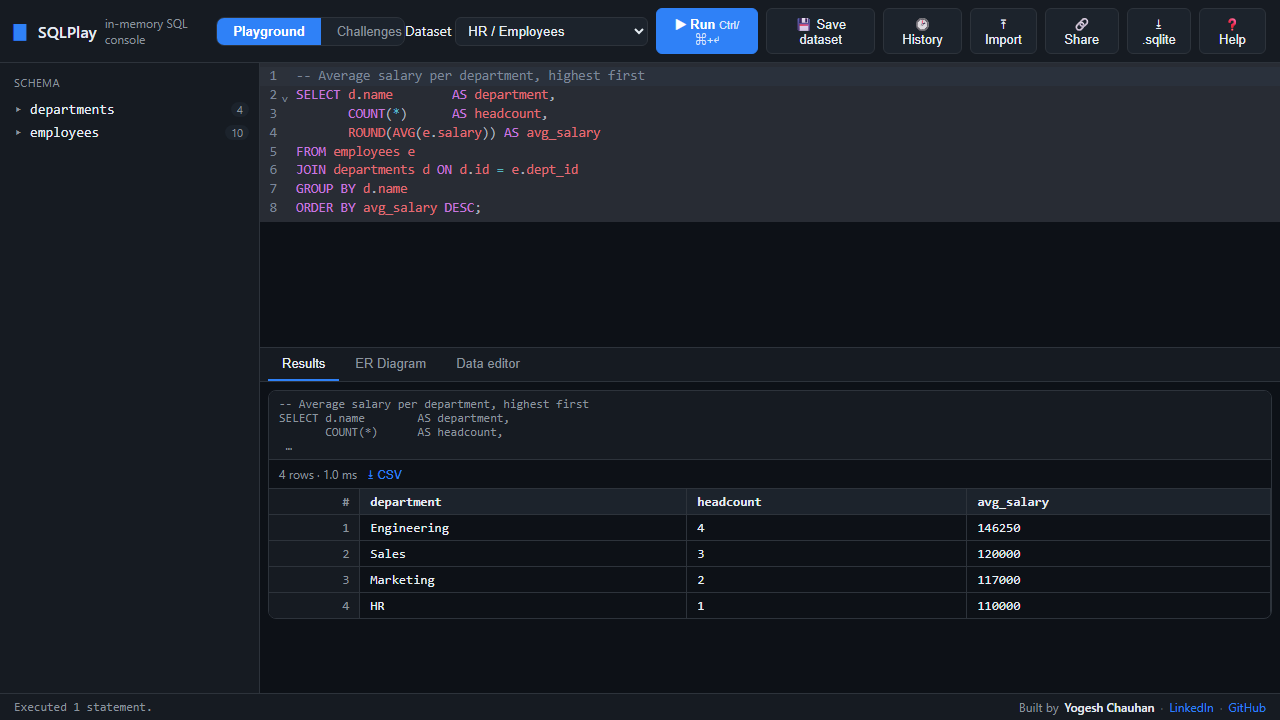
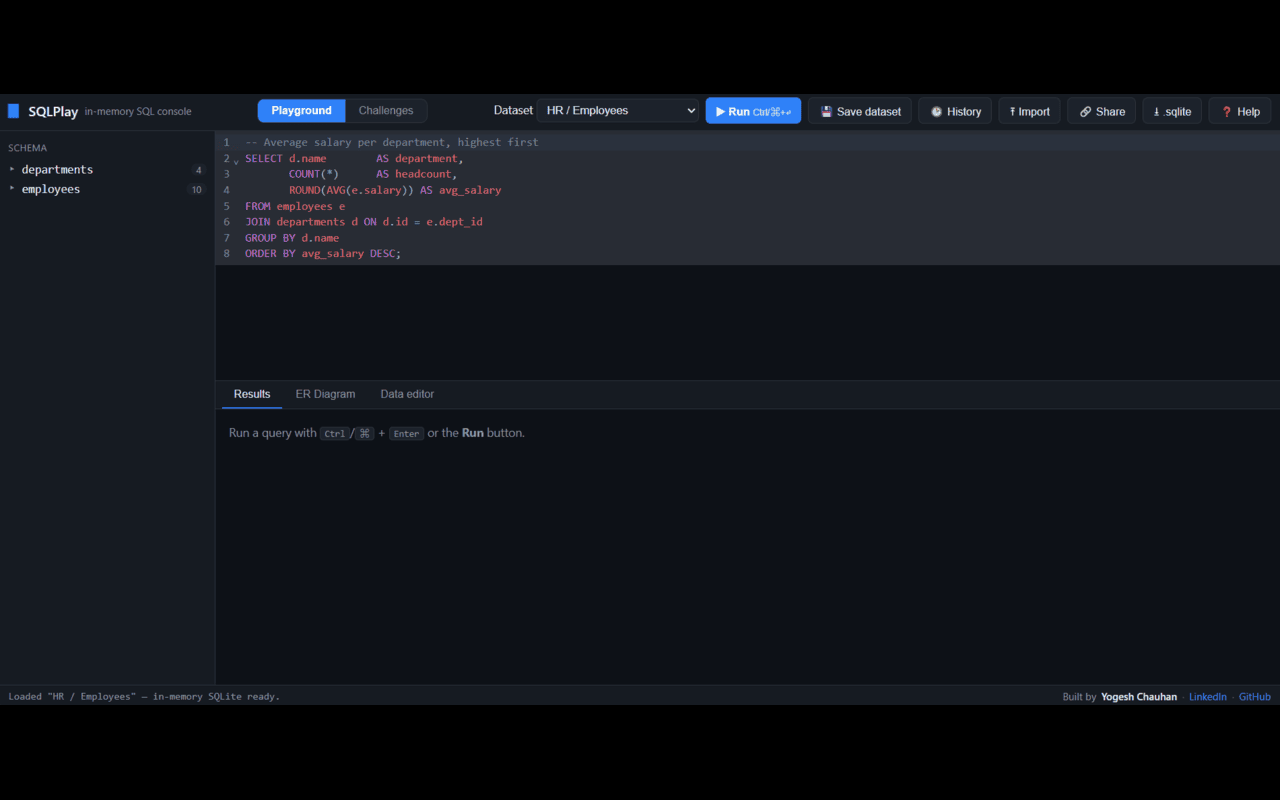
feat: update portfolio with EcoExpress project and enhance existing project descriptions

diff --git a/src/components/Skills.tsx b/src/components/Skills.tsx
@@ -20,9 +20,14 @@ import {
     IconBrandVercel,
     IconBrandVite,
     IconBrandVue,
+    IconCoffee,
+    IconBrandDocker,
+    IconBrandAws,
     IconComponents,
     IconDatabase,
+    IconFileTypeXml,
     IconFlame,
+    IconLeaf,
     IconMasksTheater,
     IconPlugConnected,
     IconServer,
@@ -30,6 +35,7 @@ import {
     IconSparkles,
     IconStack2,
     IconTestPipe,
+    IconVersions,
 } from "@tabler/icons-react"
 
 type Skill = { title: string; logo: ReactElement }
@@ -58,6 +64,9 @@ const skillGroups: SkillGroup[] = [
         skills: [
             { title: "Node.js", logo: <IconBrandNodejs className={iconClass} aria-hidden="true" /> },
             { title: "Express.js", logo: <IconServer className={iconClass} aria-hidden="true" /> },
+            { title: "Java", logo: <IconCoffee className={iconClass} aria-hidden="true" /> },
+            { title: "Spring Boot", logo: <IconLeaf className={iconClass} aria-hidden="true" /> },
+            { title: "Spring Security", logo: <IconShieldCheck className={iconClass} aria-hidden="true" /> },
             { title: "Hono", logo: <IconFlame className={iconClass} aria-hidden="true" /> },
             { title: "REST APIs", logo: <IconApi className={iconClass} aria-hidden="true" /> },
             { title: "Socket.io", logo: <IconPlugConnected className={iconClass} aria-hidden="true" /> },
@@ -71,6 +80,8 @@ const skillGroups: SkillGroup[] = [
             { title: "PostgreSQL", logo: <IconDatabase className={iconClass} aria-hidden="true" /> },
             { title: "MySQL", logo: <IconDatabase className={iconClass} aria-hidden="true" /> },
             { title: "Prisma", logo: <IconBrandPrisma className={iconClass} aria-hidden="true" /> },
+            { title: "JPA / Hibernate", logo: <IconDatabase className={iconClass} aria-hidden="true" /> },
+            { title: "Flyway", logo: <IconVersions className={iconClass} aria-hidden="true" /> },
             { title: "Redis", logo: <IconServer className={iconClass} aria-hidden="true" /> },
         ],
     },
@@ -80,6 +91,7 @@ const skillGroups: SkillGroup[] = [
             { title: "Google Gemini", logo: <IconSparkles className={iconClass} aria-hidden="true" /> },
             { title: "OpenAI", logo: <IconBrandOpenai className={iconClass} aria-hidden="true" /> },
             { title: "Vercel AI SDK", logo: <IconBrandVercel className={iconClass} aria-hidden="true" /> },
+            { title: "Spring AI", logo: <IconLeaf className={iconClass} aria-hidden="true" /> },
         ],
     },
     {
@@ -90,6 +102,9 @@ const skillGroups: SkillGroup[] = [
             { title: "Playwright", logo: <IconMasksTheater className={iconClass} aria-hidden="true" /> },
             { title: "Git", logo: <IconBrandGit className={iconClass} aria-hidden="true" /> },
             { title: "GitHub Actions", logo: <IconBrandGithub className={iconClass} aria-hidden="true" /> },
+            { title: "Docker", logo: <IconBrandDocker className={iconClass} aria-hidden="true" /> },
+            { title: "Maven", logo: <IconFileTypeXml className={iconClass} aria-hidden="true" /> },
+            { title: "AWS S3 / R2", logo: <IconBrandAws className={iconClass} aria-hidden="true" /> },
             { title: "Cloudflare Workers", logo: <IconBrandCloudflare className={iconClass} aria-hidden="true" /> },
             { title: "Vercel", logo: <IconBrandVercel className={iconClass} aria-hidden="true" /> },
         ],

diff --git a/src/components/ui/Footer.tsx b/src/components/ui/Footer.tsx
@@ -8,13 +8,13 @@ const Footer = () => {
         <footer className="w-full mx-auto">
             <Container
                 className="relative mx-auto h-full w-full max-w-4xl bg-white dark:bg-neutral-900 flex justify-between border-t border-neutral-100 px-10 py-3 md:py-3 dark:border-neutral-800">
-                <p className=" text-xs text-neutral-500">Built with love by Yogesh</p>
+                <p className=" text-xs text-neutral-500">Built with love by Yogesh Chauhan</p>
                 <div className="flex items-center justify-center gap-4">
 
-                    {/* <Link href="#">
-                    <IconBrandX className=" size-4 text-neutral-500 hover:text-neutral-700 dark:text-neutral-400 dark:hover:text-neutral-200" />
-                </Link> */}
-                    <Link href="https://www.linkedin.com/in/yogesh-chauhan-318172119/" target="_blank" rel="noopener noreferrer" aria-label="Visit my LinkedIn profile">
+                    <Link href="https://x.com/Yogesh0130" target="_blank" rel="noopener noreferrer">
+                        <IconBrandX className=" size-4 text-neutral-500 hover:text-neutral-700 dark:text-neutral-400 dark:hover:text-neutral-200" />
+                    </Link>
+                    <Link href="https://www.linkedin.com/in/yogeshchauhan-dev/" target="_blank" rel="noopener noreferrer" aria-label="Visit my LinkedIn profile">
                         <IconBrandLinkedin className=" size-4 text-neutral-500 hover:text-neutral-700 dark:text-neutral-400 dark:hover:text-neutral-200" />
                     </Link>
                     <Link href="https://github.com/Yogesh0627" target="_blank" rel="noopener noreferrer" aria-label="Visit my GitHub profile">

diff --git a/src/components/Timeline.tsx b/src/components/Timeline.tsx
@@ -21,6 +21,10 @@ const timelineData: TimelineDataType[] = [
         title: "2026",
         content: [
             {
+                title: "Shipped EcoExpress — an AI-assisted organic grocery platform",
+                description: "Stepped outside the JS stack to build a Java 21 / Spring Boot modular monolith behind a Next.js storefront, pushing the money- and stock-critical rules down into Postgres constraints so a bug in application code can't corrupt an order or oversell inventory."
+            },
+            {
                 title: "Led a backend performance overhaul at WoCo",
                 description: "Refactored god-controllers into a clean layered architecture, raised the codebase's documented quality score from 4.5 to 8.6/10, and cut authenticated-request overhead ~4× with a Redis cache and 44 MongoDB indexes."
             },
@@ -47,7 +51,7 @@ const timelineData: TimelineDataType[] = [
         title: "2024",
         content: [
             {
-                title: "Joined Work Companion LLP as a Software Engineer",
+                title: "Joined Work Companion (WoCo) as a Software Engineer",
                 description: "Started as a core engineer on WoCo PMS, a multi-tenant HR performance-management platform built with React, TypeScript, and Node.js."
             },
             {

diff --git a/src/app/layout.tsx b/src/app/layout.tsx
@@ -76,7 +76,7 @@ export default function RootLayout({
                 "jobTitle": "Software Engineer",
                 "worksFor": {
                   "@type": "Organization",
-                  "name": "Work Companion LLP",
+                  "name": "Work Companion (WoCo)",
                   "url": "https://woco.co.in"
                 },
                 "alumniOf": {
@@ -86,7 +86,7 @@ export default function RootLayout({
                 },
                 "sameAs": [
                   "https://github.com/Yogesh0627",
-                  "https://www.linkedin.com/in/yogesh-chauhan-318172119/",
+                  "https://www.linkedin.com/in/yogeshchauhan-dev/",
                   "https://x.com/Yogesh0130"
                 ],
                 "email": "[email redacted]",

diff --git a/src/app/projects/page.tsx b/src/app/projects/page.tsx
@@ -7,8 +7,8 @@ import projectsData from "@/data/projectsData.json"
 
 export const metadata: Metadata = {
     title: "Projects",
-    description: "Explore Yogesh Chauhan's projects — Candor (AI-coached feedback), SQLPlay (an in-browser SQL playground on npm), InsightBlog (AI publishing platform), and WoCo PMS (multi-tenant HR platform).",
-    keywords: ["Software Projects", "React Projects", "Node.js Projects", "Next.js", "AI Integration", "Full Stack Developer"]
+    description: "Explore Yogesh Chauhan's projects — EcoExpress (AI-assisted organic grocery platform on Spring Boot), Candor (AI-coached feedback), SQLPlay (an in-browser SQL playground on npm), InsightBlog (AI publishing platform), and WoCo PMS (multi-tenant HR platform).",
+    keywords: ["Software Projects", "React Projects", "Node.js Projects", "Java Projects", "Spring Boot", "Next.js", "AI Integration", "Full Stack Developer"]
 }
 
 const ProjectPage = () => {

diff --git a/src/components/Projects.tsx b/src/components/Projects.tsx
@@ -20,6 +20,8 @@ import {
     IconArrowRight,
     IconExternalLink,
     IconFlame,
+    IconLeaf,
+    IconCoffee,
     IconServer,
     IconSparkles,
 } from "@tabler/icons-react";
@@ -40,6 +42,8 @@ const techIcon: Record<string, ReactElement> = {
     "Prisma": <IconBrandPrisma className={chipClass} aria-hidden="true" />,
     "Redis": <IconDatabase className={chipClass} aria-hidden="true" />,
     "Hono": <IconFlame className={chipClass} aria-hidden="true" />,
+    "Java": <IconCoffee className={chipClass} aria-hidden="true" />,
+    "Spring Boot": <IconLeaf className={chipClass} aria-hidden="true" />,
     "Gemini": <IconSparkles className={chipClass} aria-hidden="true" />,
     "OpenAI": <IconBrandOpenai className={chipClass} aria-hidden="true" />,
     "Vite": <IconBrandVite className={chipClass} aria-hidden="true" />,

diff --git a/src/app/page.tsx b/src/app/page.tsx
@@ -24,7 +24,7 @@ const MyPortfolio = () => {
         <SubHeading>
           I&apos;m a full-stack developer who builds scalable web apps end-to-end — from
           database schemas and Node.js APIs to polished React interfaces. Currently a
-          Software Engineer at Work Companion LLP.
+          Software Engineer at Work Companion.
         </SubHeading>
 
         <div className="px-4 pt-6">

diff --git a/src/components/Experience.tsx b/src/components/Experience.tsx
@@ -8,7 +8,7 @@ const Experience = async () => {
     const experienceData = [
         {
             id: 1,
-            company: "Work Companion LLP",
+            company: "Work Companion (WoCo)",
             role: "Software Engineer",
             duration: "Oct 2024 - Present",
             description: